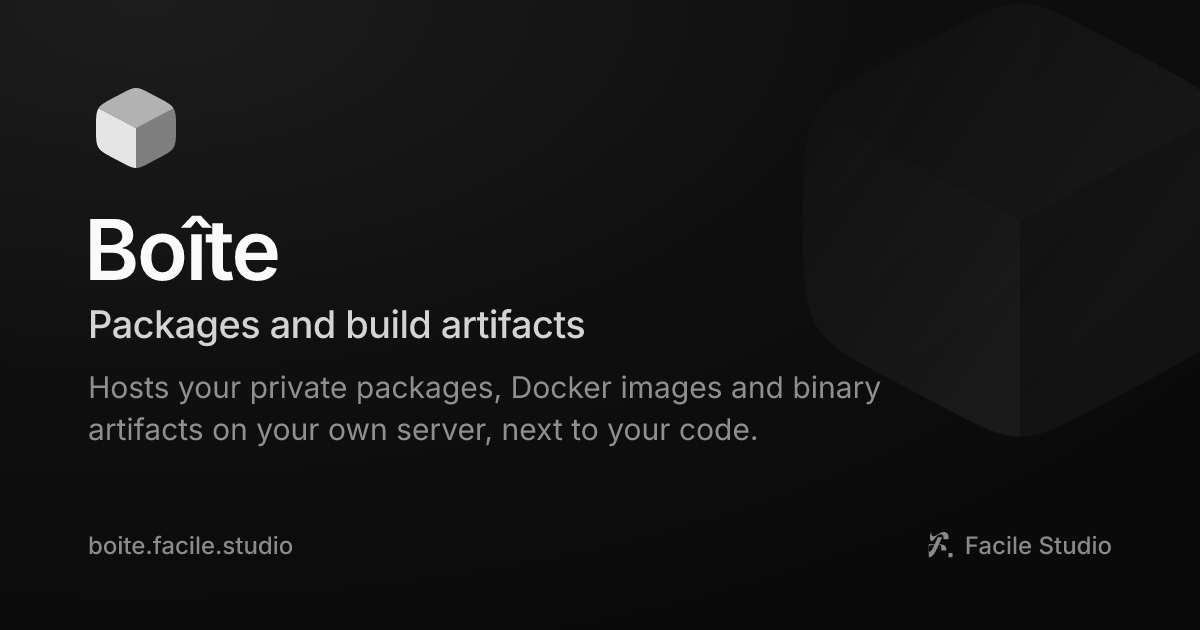
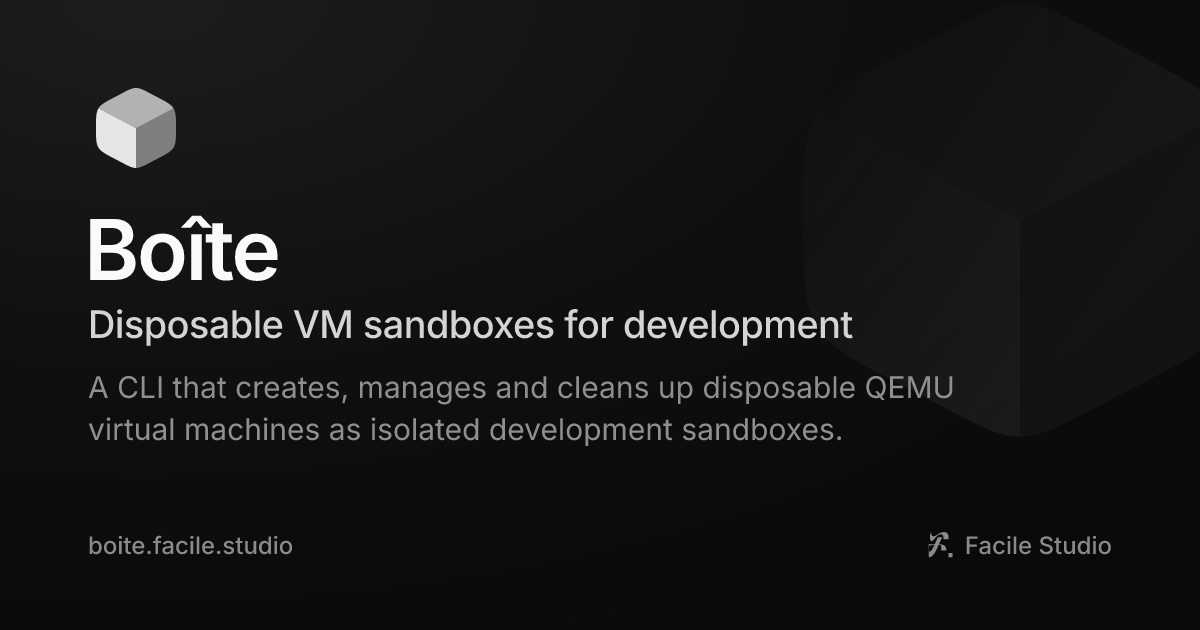
fix(brand): describe boite as a vm sandbox cli in the head metadata

Changed region(s): [[0.0617, 0.4825, 0.7092, 0.5429], [0.0617, 0.6635, 0.7092, 0.7238], [0.0617, 0.6032, 0.8017, 0.6333]]

diff --git a/site/src/app.html b/site/src/app.html
@@ -3,8 +3,8 @@
   <head>
     <meta charset="utf-8" />
     <meta name="viewport" content="width=device-width, initial-scale=1" />
-    <title>Boîte · Packages and build artifacts</title>
-    <meta name="description" content="Hosts your private packages, Docker images and binary artifacts on your own server, next to your code." />
+    <title>Boîte · Disposable VM sandboxes for development</title>
+    <meta name="description" content="A CLI that creates, manages and cleans up disposable QEMU virtual machines as isolated development sandboxes." />
     <link rel="icon" href="/favicon.svg" type="image/svg+xml" />
     <link rel="icon" href="/favicon.ico" sizes="48x48" />
     <link rel="apple-touch-icon" href="/apple-touch-icon.png" />
@@ -15,15 +15,15 @@
     <meta property="og:site_name" content="Facile" />
     <meta property="og:locale" content="en_US" />
     <meta property="og:url" content="https://boite.facile.studio/" />
-    <meta property="og:title" content="Boîte · Packages and build artifacts" />
-    <meta property="og:description" content="Hosts your private packages, Docker images and binary artifacts on your own server, next to your code." />
+    <meta property="og:title" content="Boîte · Disposable VM sandboxes for development" />
+    <meta property="og:description" content="A CLI that creates, manages and cleans up disposable QEMU virtual machines as isolated development sandboxes." />
     <meta property="og:image" content="https://boite.facile.studio/og-image.png" />
     <meta property="og:image:width" content="1200" />
     <meta property="og:image:height" content="630" />
-    <meta property="og:image:alt" content="Boîte: Packages and build artifacts" />
+    <meta property="og:image:alt" content="Boîte: Disposable VM sandboxes for development" />
     <meta name="twitter:card" content="summary_large_image" />
-    <meta name="twitter:title" content="Boîte · Packages and build artifacts" />
-    <meta name="twitter:description" content="Hosts your private packages, Docker images and binary artifacts on your own server, next to your code." />
+    <meta name="twitter:title" content="Boîte · Disposable VM sandboxes for development" />
+    <meta name="twitter:description" content="A CLI that creates, manages and cleans up disposable QEMU virtual machines as isolated development sandboxes." />
     <meta name="twitter:image" content="https://boite.facile.studio/og-image.png" />
     <meta name="color-scheme" content="light dark" />
     <script>

diff --git a/CHANGELOG.md b/CHANGELOG.md
@@ -7,6 +7,12 @@ follows [Semantic Versioning](https://semver.org/spec/v2.0.0.html). While on
 
 ## [Unreleased]
 
+## [0.14.4] — 2026-11-11
+
+### Fixed
+
+- site: the title, description and link preview describe Boîte as what it is, a CLI for disposable QEMU VM development sandboxes, from muse v0.19.2's catalog.
+
 ## [0.14.3] — 2026-11-11
 
 ### Fixed
@@ -325,7 +331,9 @@ follows [Semantic Versioning](https://semver.org/spec/v2.0.0.html). While on
 - Default cloud-init user set to `boite` exclusively.
 - ASCII banner display on shell entry.
 
-[Unreleased]: https://github.com/FacileStudio/boite/compare/v0.14.2...HEAD
+[Unreleased]: https://github.com/FacileStudio/boite/compare/v0.14.4...HEAD
+[0.14.4]: https://github.com/FacileStudio/boite/releases/tag/v0.14.4
+[0.14.3]: https://github.com/FacileStudio/boite/releases/tag/v0.14.3
 [0.14.2]: https://github.com/FacileStudio/boite/compare/v0.14.1...v0.14.2
 [0.14.1]: https://github.com/FacileStudio/boite/compare/v0.14.0...v0.14.1
 [0.14.0]: https://github.com/FacileStudio/boite/compare/v0.13.1...v0.14.0
